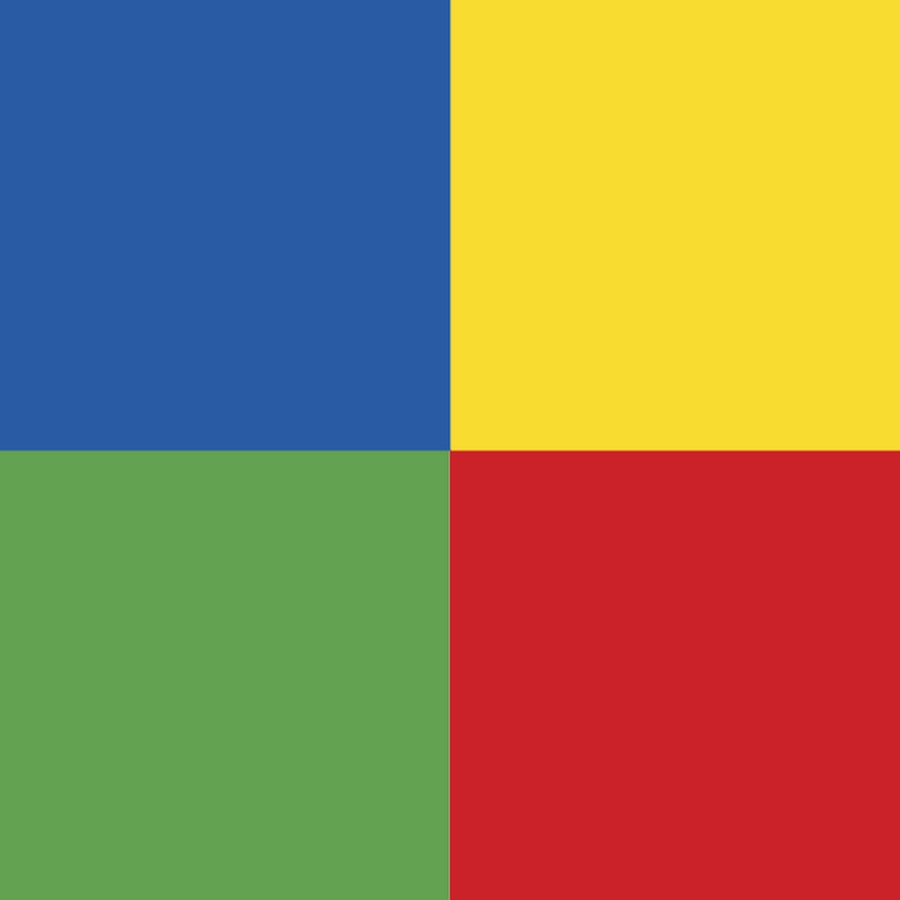
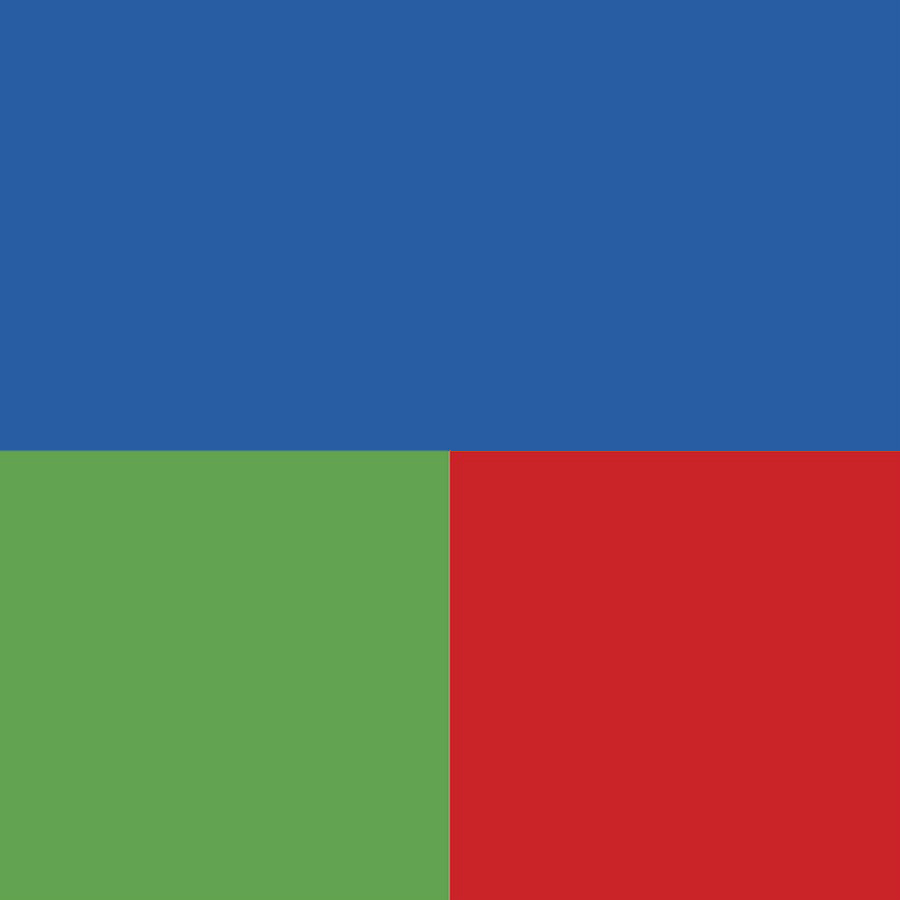
iwanna

Changed region(s): [[0.4978, 0.0, 1.0, 0.5289]]

diff --git a/src/blokus/Blokus.java b/src/blokus/Blokus.java
@@ -138,16 +138,16 @@ public class Blokus extends JFrame implements Runnable {
                     color2 = Color.white;
                 }
                  if(xpos >= 5 && xpos <= 440 && ypos >= 5 && ypos <= 450){
-                             colorOne = Color.YELLOW;
+                             colorTwo = Color.YELLOW;
                         }
                  else {
-                    colorOne = Color.white;
+                    colorTwo = Color.white;
                 }
                         if(xpos >= 5 && xpos <= 440 && ypos >= 450 && ypos <= 895){
-                               colorFour = Color.YELLOW;
+                               colorThree = Color.YELLOW;
                         }
                         else {
-                    colorFour = Color.white;
+                    colorThree = Color.white;
                 }
                         if(xpos >= 450 && xpos <= 865 && ypos >= 25 && ypos <= 450){
                                  colorTwo = Color.YELLOW;
@@ -156,10 +156,10 @@ public class Blokus extends JFrame implements Runnable {
                     colorTwo = Color.white;
                 }
                         if(xpos >= 450 && xpos <= 865 && ypos >= 450 && ypos <= 895){
-                                  colorThree = Color.YELLOW;
+                                  colorFour = Color.YELLOW;
                         }
                         else {
-                    colorThree = Color.white;
+                    colorFour = Color.white;
                 }
           
 //          System.out.println(xpos);
@@ -224,13 +224,13 @@ public class Blokus extends JFrame implements Runnable {
             g.drawString("Select Number of Players", 80, 100);
             g.setColor(colorOne);
             g.setFont(new Font("Arial", Font.BOLD, 150));
-            g.drawString("1", 150, 275);
+            
              g.setColor(colorTwo);
-            g.drawString("2", 600, 275);
+            g.drawString("2", 400, 275);
              g.setColor(colorThree);
-            g.drawString("3", 600, 700);
+            g.drawString("3", 150, 700);
              g.setColor(colorFour);
-            g.drawString("4", 150, 700);
+            g.drawString("4", 600, 700);
         } else if (gameState == Window.GameState.InGame) {
 //fill background
 
